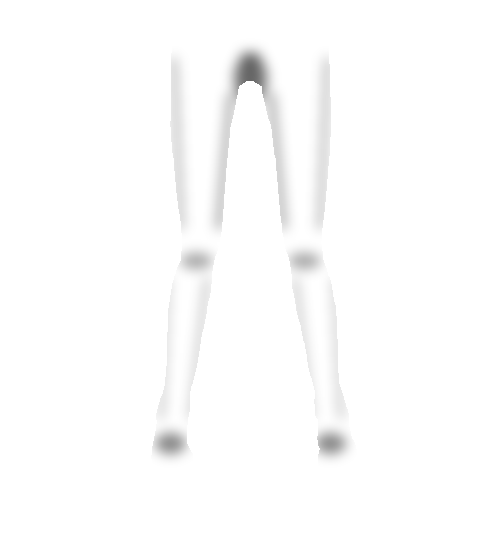
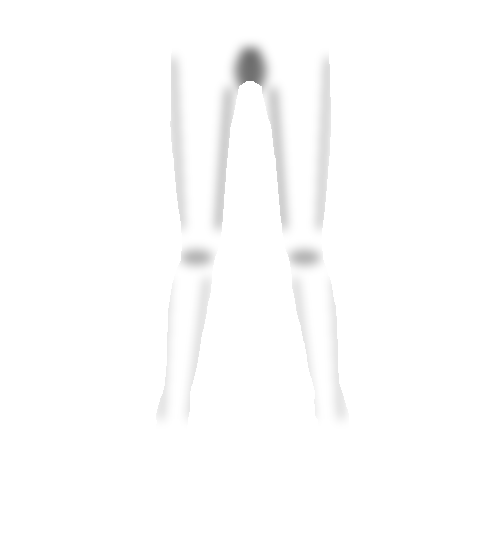
Improve pectorals anatomy, exact contour matching for FlatSmall and Small legs, and correct standing mannequin pose

diff --git a/studio/index.html b/studio/index.html
@@ -1306,6 +1306,12 @@
 		});
 
 		itemModeSelect.addEventListener("change", () => {
+			if (itemModeSelect.value === "SpiderCatsuit") {
+				chestSelect.value = "FlatSmall";
+				legsSelect.value = "Small";
+				poseSelect.value = "Standing";
+				legPoseSelect.value = "LegsOpen";
+			}
 			initLayerUI();
 			render();
 		});
